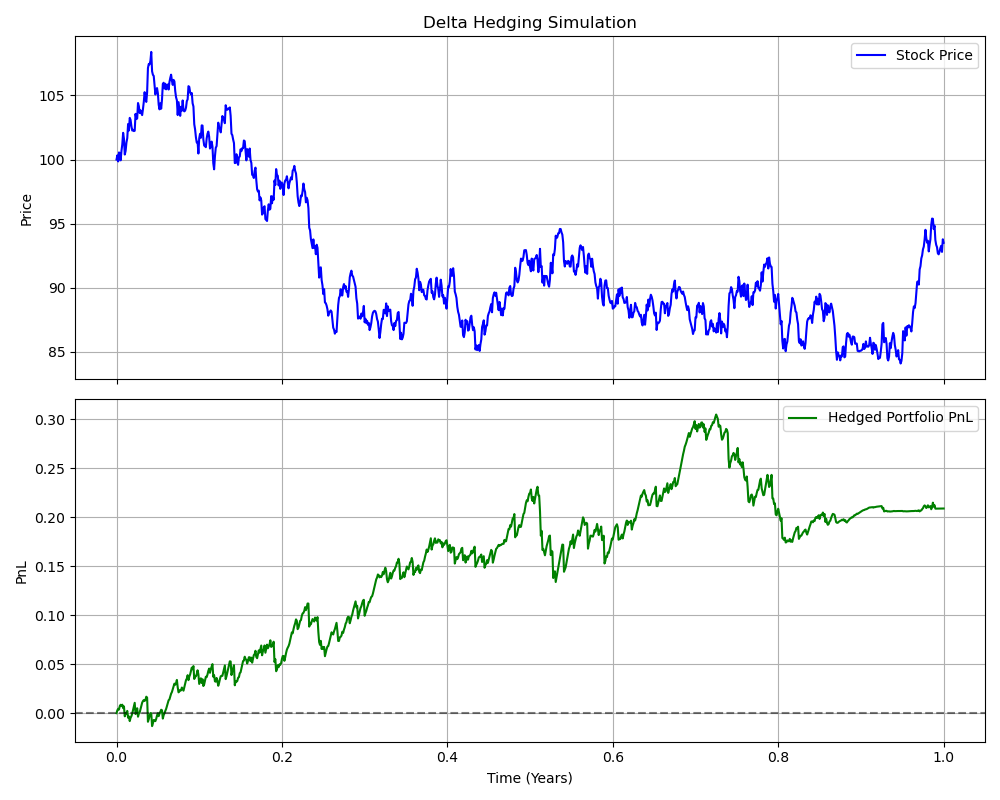
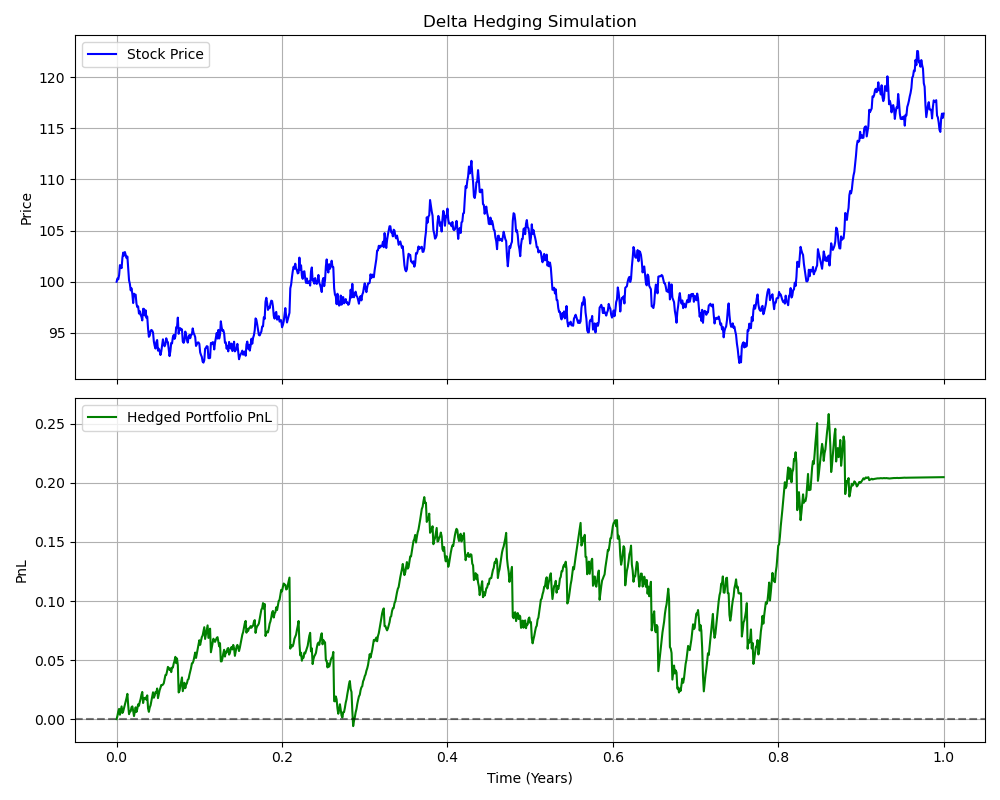
fix: correct delta-hedging P&L accounting
Three accounting errors made the reported hedging P&L meaningless:

- DeltaHedging added the short option's value to the portfolio instead of
  subtracting it (-option_position * price with option_position = -1), so
  the "mean hedging error" was about twice the option value (8.54 in the
  README example) rather than close to zero.
- DeltaHedging grew the running sum of all cash flows by exp(r*t) from
  t = 0, so rebalancing trades made later earned interest they never
  accrued. Cash now accrues exp(r*dt) each step before that step's trade.
- examples/05 paid the payoff out of cash at expiry and then subtracted it
  again as the option liability, so any path finishing in the money lost
  the payoff twice (-16.24 on the seeded path instead of +0.20).

With the fixes the mean hedging error is within noise of zero and its
standard deviation halves each time the rebalancing frequency quadruples,
the expected 1/sqrt(N) behaviour of discrete delta hedging.

- Regenerate assets/hedging_simulation.png from the seeded example.
- Tests: zero mean error, 1/sqrt(N) dispersion scaling, example settles an
  in-the-money path without double counting.

diff --git a/quantlib/tests/test_delta_hedging.py b/quantlib/tests/test_delta_hedging.py
@@ -26,3 +26,41 @@ class TestSeeding:
         np.random.seed(123)
         _hedger().simulate_hedging(n_steps=10, n_simulations=5, seed=0)
         assert np.random.random() == expected
+
+
+class TestHedgingAccounting:
+    """A delta-hedged short option financed at the risk-free rate should have zero expected
+    P&L, with dispersion shrinking like 1/sqrt(number of rebalances)."""
+
+    N_SIMS = 2000
+
+    def _errors(self, n_steps):
+        results = _hedger().simulate_hedging(n_steps=n_steps, n_simulations=self.N_SIMS, seed=42)
+        return np.array([r["final_hedging_error"] for r in results])
+
+    def test_mean_hedging_error_is_zero(self):
+        errors = self._errors(100)
+        # The old accounting added the short option instead of subtracting it: mean ~ 2x the payoff
+        assert abs(errors.mean()) < 4 * errors.std(ddof=1) / np.sqrt(self.N_SIMS)
+
+    def test_error_dispersion_halves_when_rebalancing_quadruples(self):
+        std_25, std_100, std_400 = (self._errors(n).std(ddof=1) for n in (25, 100, 400))
+        assert 1.6 < std_25 / std_100 < 2.4
+        assert 1.6 < std_100 / std_400 < 2.4
+
+    def test_example_script_does_not_double_count_payoff(self, tmp_path, monkeypatch, capsys):
+        """examples/05 closes the position at expiry; the seeded path finishes in the money, so
+        subtracting the payoff twice would show up as a loss of about the payoff (~16)."""
+        import runpy
+        from pathlib import Path
+
+        import matplotlib
+        matplotlib.use("Agg")
+        script = Path(__file__).resolve().parents[2] / "examples" / "05_delta_hedging_sim.py"
+        monkeypatch.chdir(tmp_path)
+        runpy.run_path(str(script), run_name="__main__")
+        out = capsys.readouterr().out
+        final_pnl = float(next(l for l in out.splitlines() if l.startswith("Final Portfolio PnL")).split(":")[1])
+        final_spot = float(next(l for l in out.splitlines() if l.startswith("Final Spot")).split(":")[1])
+        assert final_spot > 100  # the seeded path ends in the money, so the test exercises settlement
+        assert abs(final_pnl) < 1.0

diff --git a/quantlib/hedging/delta_hedging.py b/quantlib/hedging/delta_hedging.py
@@ -96,25 +96,30 @@ class DeltaHedging:
                 # Stock price evolution (geometric Brownian motion)
                 dW = rng.normal(0, np.sqrt(dt))
                 S[i] = S[i-1] * np.exp((self.r - 0.5 * self.sigma**2) * dt + self.sigma * dW)
-                
+
                 t = i * dt
-                
+
+                # Cash earns the risk-free rate over the step. Each rebalancing flow must accrue
+                # only from the time it happens, so grow the balance step by step rather than
+                # growing the running sum of all flows from t = 0.
+                cash_position *= np.exp(self.r * dt)
+
                 # Rehedge if necessary
                 if i % hedge_frequency == 0 or i == n_steps:
                     current_delta = self.calculate_delta(S[i], t)
                     required_stock = -option_position * current_delta
                     stock_trade = required_stock - stock_position
-                    
+
                     # Update positions
                     cash_position -= stock_trade * S[i]  # Cost of rebalancing
                     stock_position = required_stock
-                
-                # Calculate portfolio value
-                option_value = -option_position * self.black_scholes_price(S[i], t)
+
+                # Portfolio value: short option (a liability, so its value enters negatively),
+                # plus shares, plus cash
+                option_value = option_position * self.black_scholes_price(S[i], t)
                 stock_value = stock_position * S[i]
-                cash_value = cash_position * np.exp(self.r * t)  # Cash grows at risk-free rate
-                
-                total_portfolio_value = option_value + stock_value + cash_value
+
+                total_portfolio_value = option_value + stock_value + cash_position
                 portfolio_values.append(total_portfolio_value)
                 
                 # Hedging error (should be close to 0 for perfect hedge)

diff --git a/examples/05_delta_hedging_sim.py b/examples/05_delta_hedging_sim.py
@@ -97,20 +97,22 @@ def run_simulation():
             cash -= delta_change * new_spot
             
             option_price = engine.price(new_contract).price
+            liability = option_price
         else:
             # Expiry
             payoff = max(0.0, new_spot - K)
             option_price = payoff
-            
+
             # Close out position
             cash += shares * new_spot # Sell shares
             shares = 0
             cash -= payoff            # Pay out option holder
-            
+            liability = 0.0           # settled above; subtracting it again would double count
+
         option_prices.append(option_price)
-        
+
         # Portfolio Value = Cash + Shares*S - Option_Liability
-        pv = cash + shares * new_spot - option_price
+        pv = cash + shares * new_spot - liability
         portfolio_values.append(pv)
         
         current_contract = new_contract
